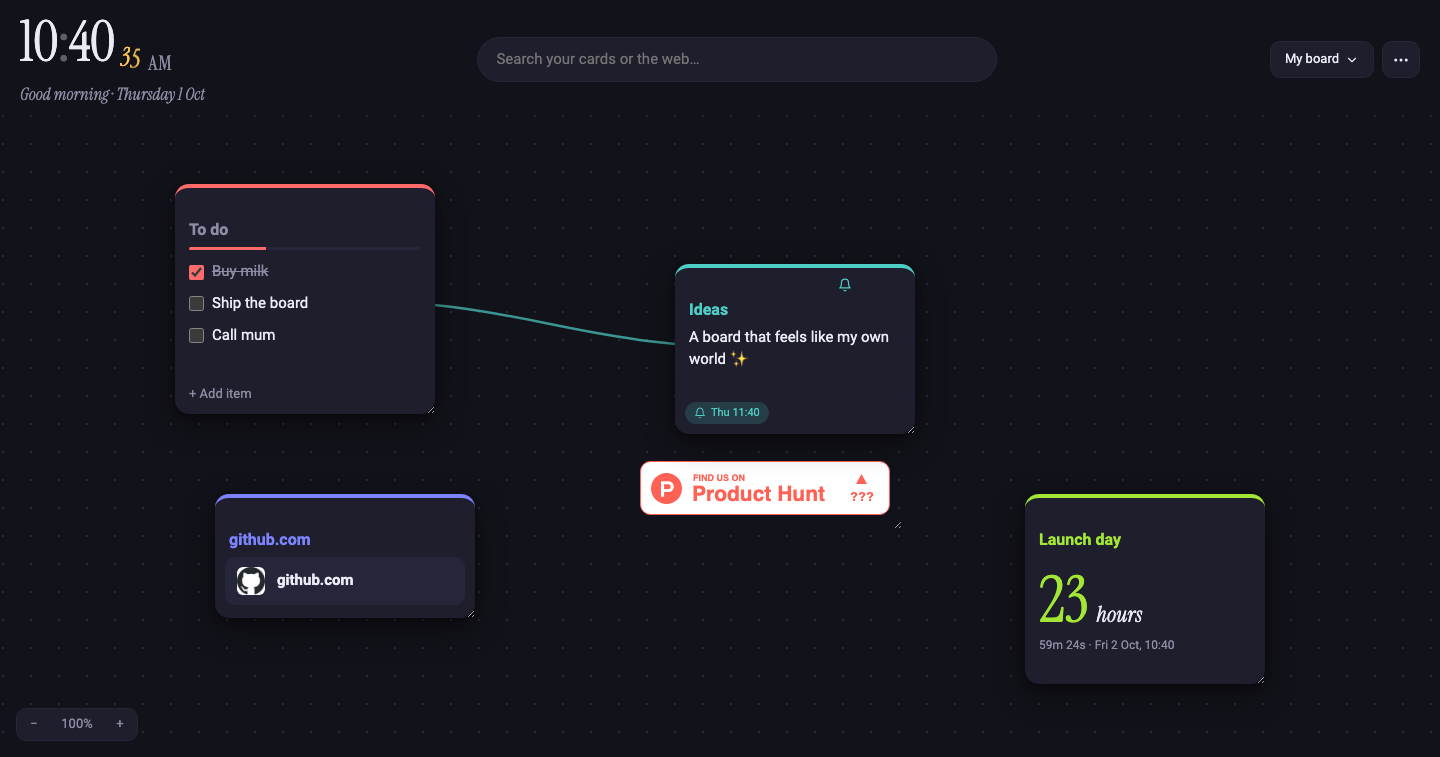
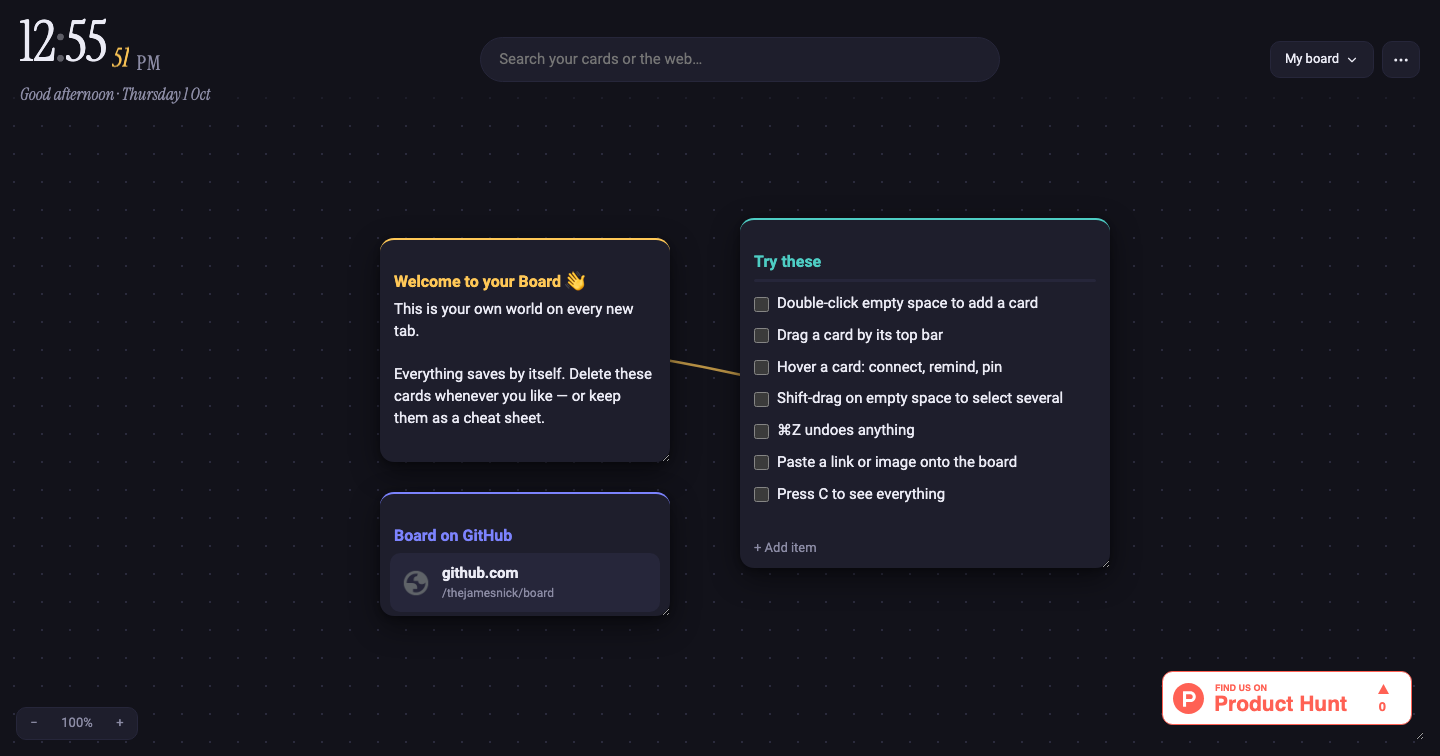
Fix on-screen card edge cases, roomier welcome cards, new screenshot
- Jumping to a kept-on-screen card from search no longer moves the board
- Duplicating/copying a kept-on-screen card places the copy on the board
- Welcome checklist and note sized so every tip is visible
- README screenshot shows the real first-run board

diff --git a/newtab/js/welcome.js b/newtab/js/welcome.js
@@ -49,7 +49,7 @@ export function seedWelcome(at, { withBadge = false } = {}) {
     ...base(), type: 'note', color: '#ffc857',
     title: 'Welcome to your Board 👋',
     body: 'This is your own world on every new tab.\n\nEverything saves by itself. Delete these cards whenever you like — or keep them as a cheat sheet.',
-    x: x - 340, y: y - 170, w: 290, h: 200,
+    x: x - 340, y: y - 170, w: 290, h: 224,
   };
   const items = [
     'Double-click empty space to add a card',
@@ -64,12 +64,12 @@ export function seedWelcome(at, { withBadge = false } = {}) {
     ...base(), type: 'checklist', color: '#4ecdc4',
     title: 'Try these',
     items: items.map(text => ({ id: uid(), text, done: false })),
-    x: x + 20, y: y - 190, w: 320, h: 300,
+    x: x + 20, y: y - 190, w: 370, h: 350,
   };
   const link = {
     ...base(), type: 'link', color: '#7c83fd',
     title: 'Board on GitHub', url: 'https://github.com/thejamesnick/board',
-    x: x - 340, y: y + 60, w: 290, h: 124,
+    x: x - 340, y: y + 84, w: 290, h: 124,
   };
   b.cards.push(note, checklist, link);
   b.links.push({ id: uid(), a: note.id, b: checklist.id });

diff --git a/newtab/js/selection.js b/newtab/js/selection.js
@@ -58,16 +58,19 @@ export function deleteSelected() {
 // fresh copies of `cards` (and the links between them), moved by (dx, dy)
 function cloneGroup(cards, links, dx, dy) {
   const ids = new Map(cards.map(c => [c.id, uid()]));
-  const copies = cards.map(c => ({
-    ...structuredClone(c),
-    id: ids.get(c.id),
-    x: Math.round(c.x + dx),
-    y: Math.round(c.y + dy),
-    z: nextZ(),
-    remindAt: null,
-    onScreen: false,
-    items: c.items?.map(i => ({ ...i, id: uid() })),
-  }));
+  const copies = cards.map(c => {
+    const p = c.onScreen ? toWorld(c.x, c.y) : c; // copies always land on the board
+    return {
+      ...structuredClone(c),
+      id: ids.get(c.id),
+      x: Math.round(p.x + dx),
+      y: Math.round(p.y + dy),
+      z: nextZ(),
+      remindAt: null,
+      onScreen: false,
+      items: c.items?.map(i => ({ ...i, id: uid() })),
+    };
+  });
   const newLinks = links
     .filter(l => ids.has(l.a) && ids.has(l.b))
     .map(l => ({ id: uid(), a: ids.get(l.a), b: ids.get(l.b) }));

diff --git a/newtab/js/board.js b/newtab/js/board.js
@@ -339,12 +339,14 @@ export function focusCard(id) {
   if (!found) return;
   if (found.board.id !== store.state.activeBoard) switchBoard(found.board.id);
   const b = board(), c = found.card;
-  if (b.zoom < 0.6) b.zoom = 1;
-  b.pan.x = Math.round(innerWidth / 2 - (c.x + c.w / 2) * b.zoom);
-  b.pan.y = Math.round(innerHeight / 2 + 40 - (c.y + c.h / 2) * b.zoom);
-  glide();
-  applyView();
-  save();
+  if (!c.onScreen) { // screen cards are already in view
+    if (b.zoom < 0.6) b.zoom = 1;
+    b.pan.x = Math.round(innerWidth / 2 - (c.x + c.w / 2) * b.zoom);
+    b.pan.y = Math.round(innerHeight / 2 + 40 - (c.y + c.h / 2) * b.zoom);
+    glide();
+    applyView();
+    save();
+  }
   const el = cardEls.get(id);
   bringToFront(el, c);
   el.classList.remove('flash');
